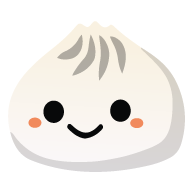
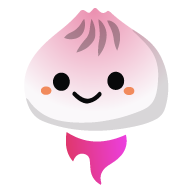
metadata imgs changed

diff --git a/src/lib/data/siteData.ts b/src/lib/data/siteData.ts
@@ -12,8 +12,8 @@ export const siteData: TSiteData = {
         "BUNEXT is a Next.js 15 Bun Starter with Shadcn UI, Tailwind CSS, TypeScript, Zod, React Hook Form, React Email, Resend, and React Hot Toast.",
     ogImage: { src: "/ogImage.webp", alt: "Bunestro", width: 1200, height: 630 },
     metadata_color: {
-        light: "#1acfff",
-        dark: "#1acfff",
+        light: "#794af4",
+        dark: "#794af4",
     },
     author: {
         name: "darkidop",
